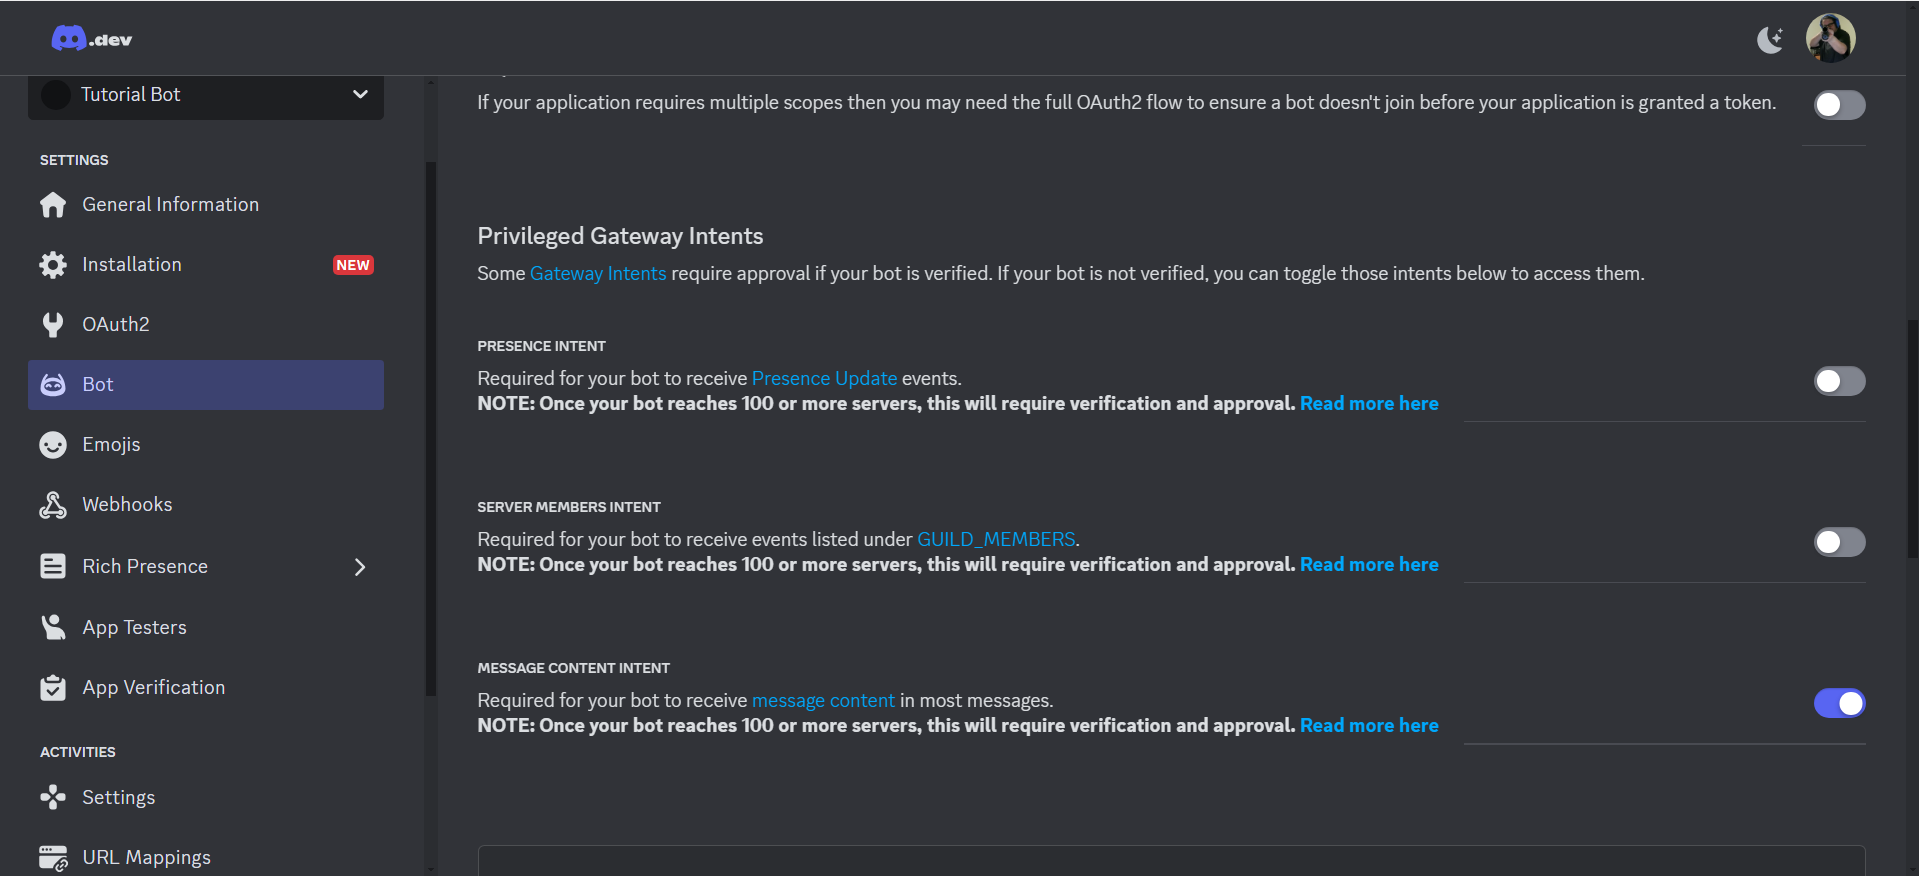
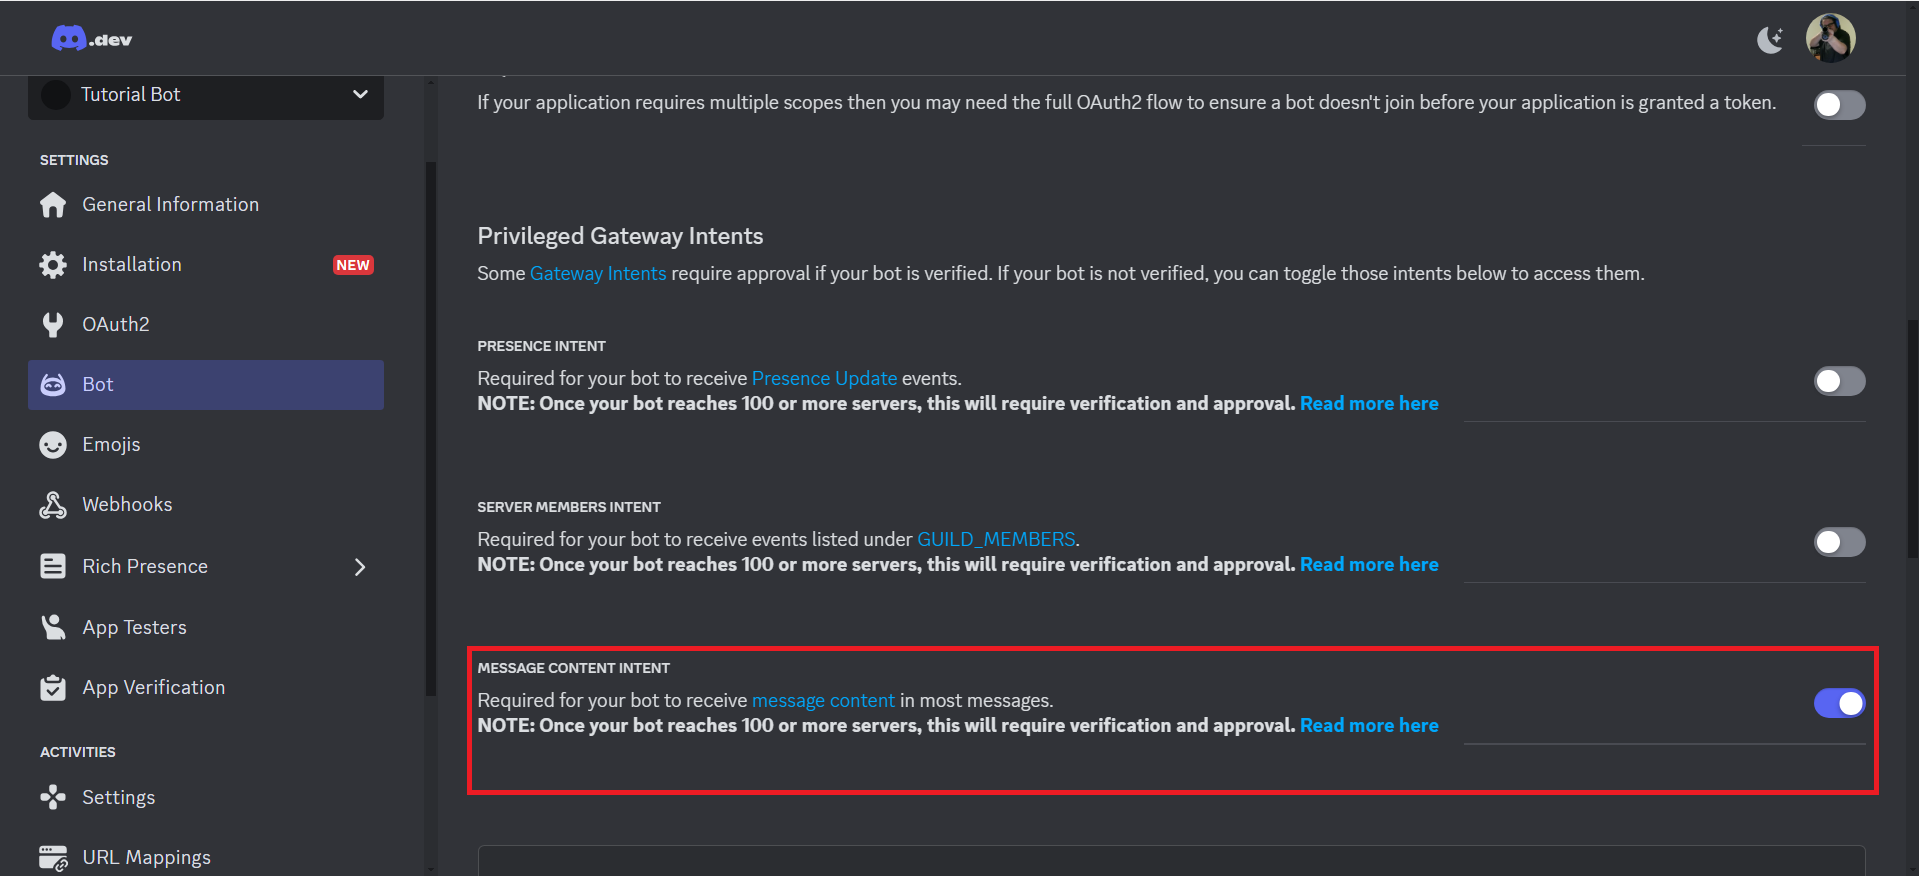
Got rid of the parentheses and added a red box in the associated image in step 8

Changed region(s): [[0.246, 0.8938, 0.9838, 0.9247], [0.246, 0.7397, 0.9838, 0.7705]]

diff --git a/README.md b/README.md
@@ -38,7 +38,7 @@ To make a Discord bot you will need to have somewhere to create it and Python it
 * Name your server and click create. ![name your server](Pictures/Name_The_Server.png)
 ### 8. Invite the bot to the test server you just made.
 * Go to your [Discord developer portal](https://discord.com/developers/applications)
-* Go to the Bot tab and scroll down to "Priveleged Gatewat Intents" and turn **(((ON)))** message content intent. ![turn this on](Pictures/message-content-intent.png)
+* Go to the Bot tab and scroll down to "Priveleged Gatewat Intents" and turn **ON** message content intent. ![turn this on](Pictures/message-content-intent.png)
 * Go to the OAuth2 tab page for your bot.!(OAuth2 Location)[OAuth2_Loacation.png]
 * Set the URI Redirect to "https://discordapp.com/oauth2/authorize?&client_id={yourClientIDhere}&scope=bot" ![Redirect URI](Pictures/Redirect-URI.png)
 * Check the bot and messages.read boxes under scopes for bot. ![bot scope](Pictures/Scope-discord.png)
